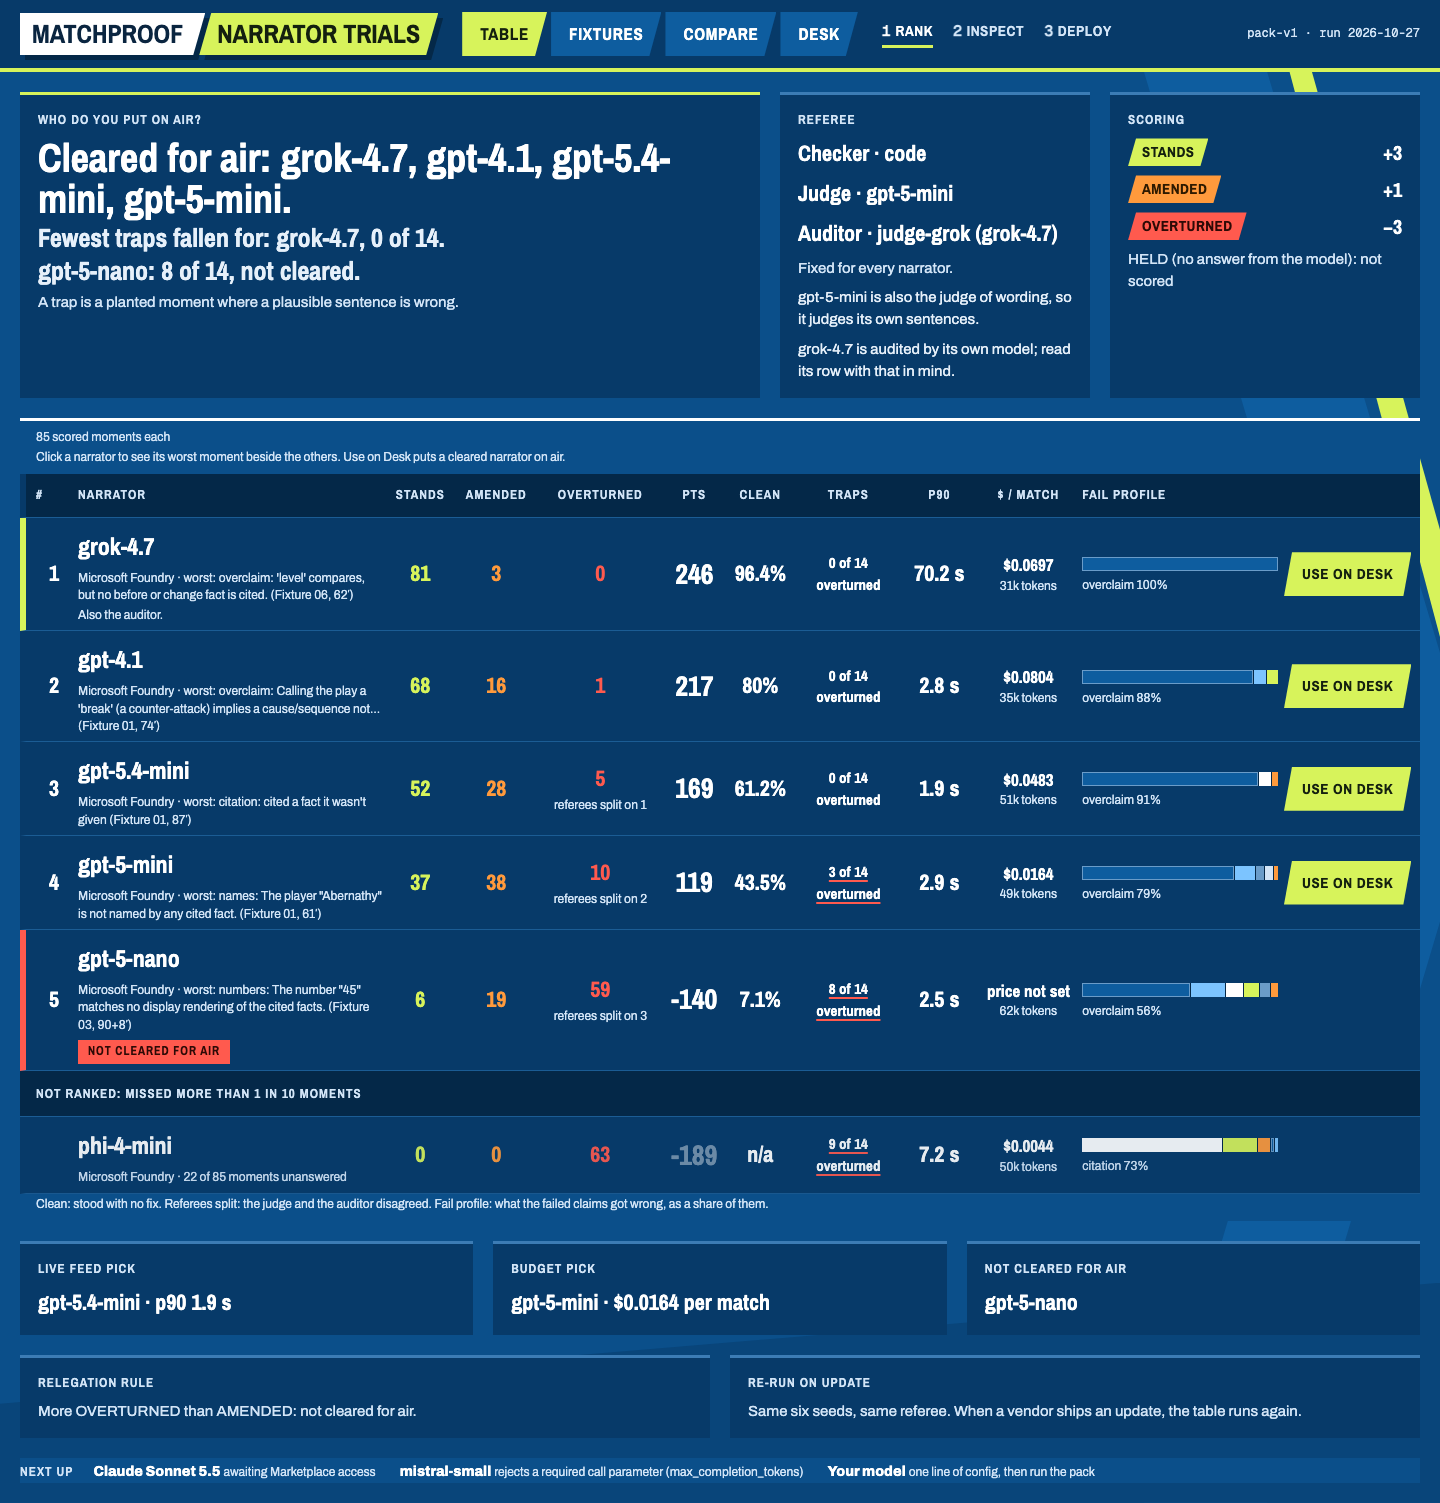
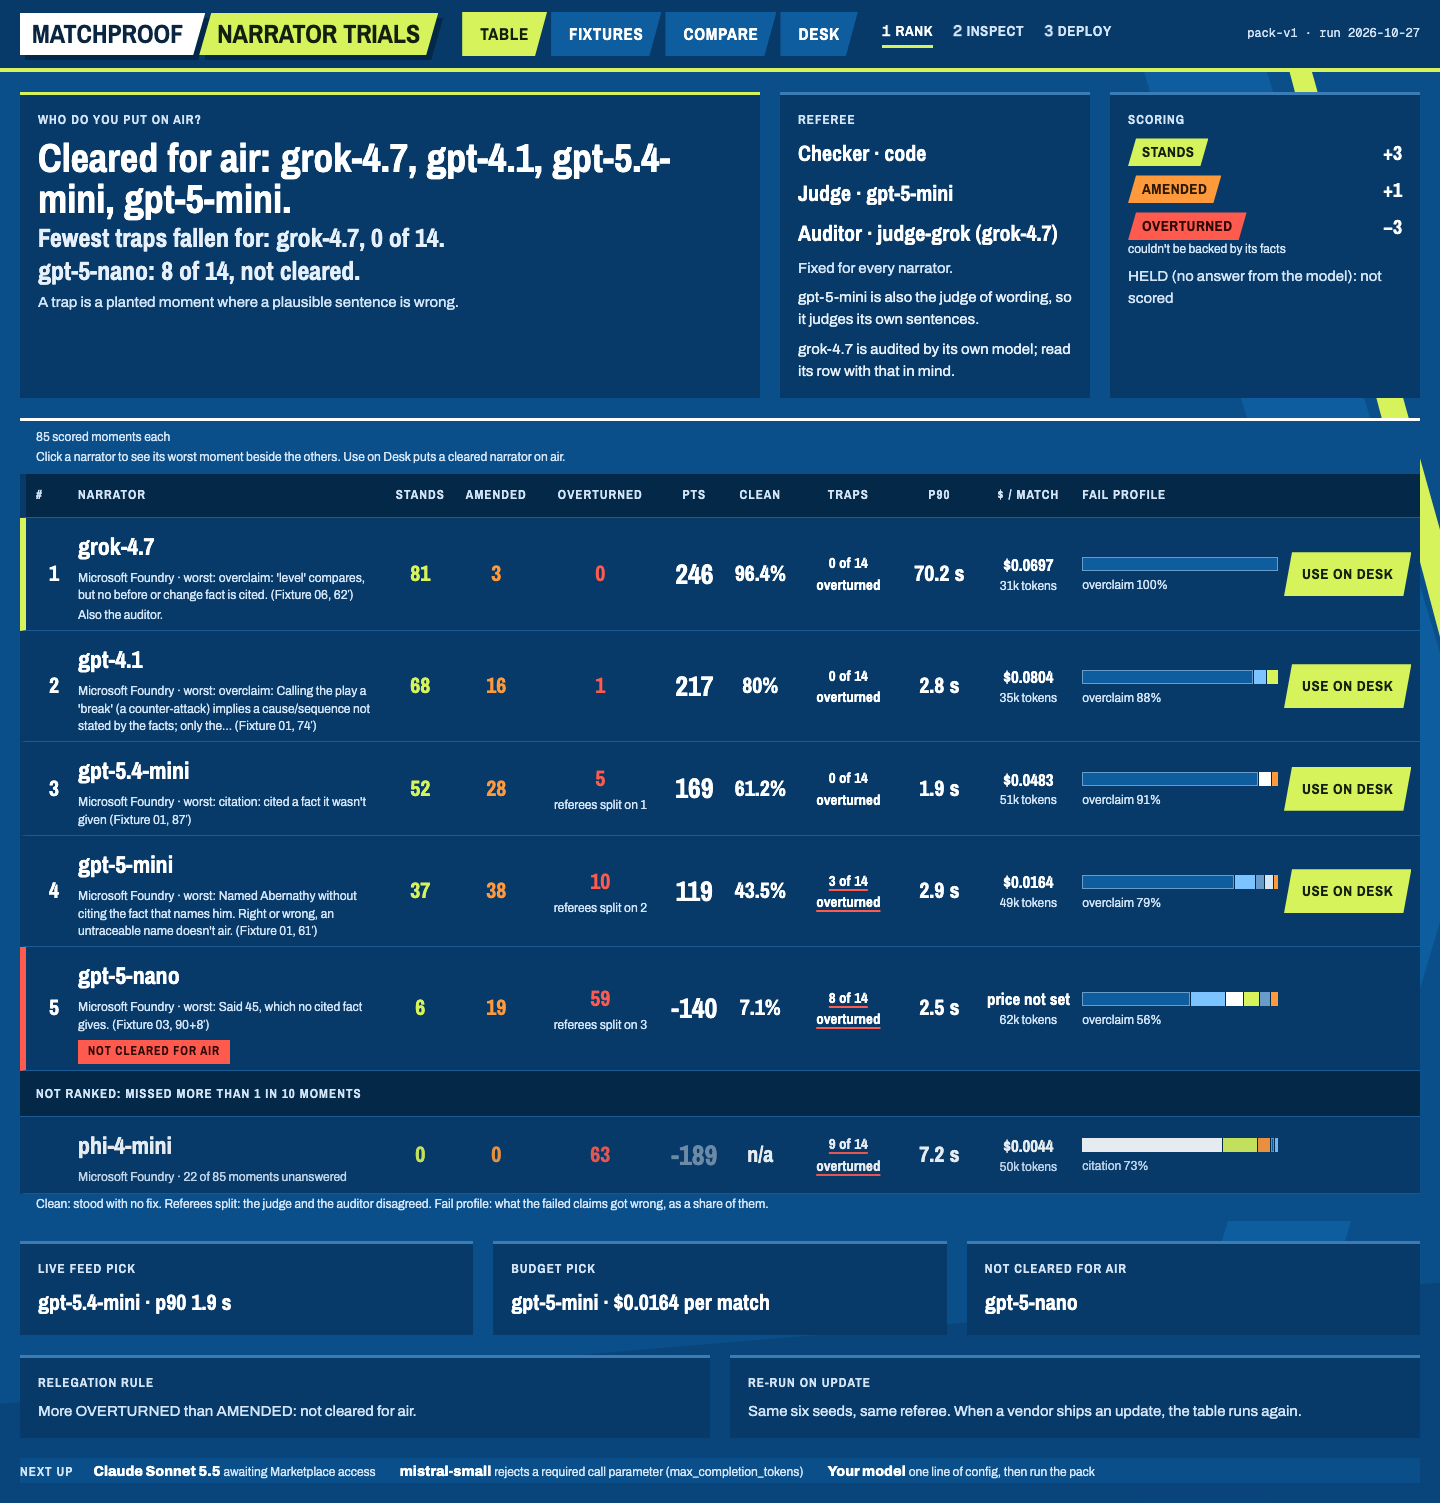
Say name and number overturns in plain words and explain OVERTURNED

diff --git a/apps/web/e2e/trials.spec.ts b/apps/web/e2e/trials.spec.ts
@@ -198,3 +198,12 @@ for (const width of [1440, 1280, 1024]) {
     expect(clashes).toEqual([]);
   });
 }
+
+test("a code-caught name overturn says why in plain words, and OVERTURNED is explained", async ({ page }) => {
+  await open(page, "/compare/fx-02/bt-001815-set_piece_goal?focus=gpt-5-nano");
+  await expect(page.getByText("OVERTURNED means the claim couldn't be traced to its cited facts, even if it happens to be true.")).toBeVisible();
+  await expect(page.locator("#card-gpt-5-nano").getByText("Named Oyelaran without citing the fact that names him. Right or wrong, an untraceable name doesn't air.")).toBeVisible();
+  await page.screenshot({ path: `${OUT}/compare-plain-reason-1440.png`, fullPage: true });
+  await open(page, "/");
+  await expect(page.getByText("couldn't be backed by its facts")).toBeVisible();
+});

diff --git a/apps/web/src/components/trials/TablePage.tsx b/apps/web/src/components/trials/TablePage.tsx
@@ -67,9 +67,12 @@ function Scoring() {
     <section className="tr-card">
       <div className="tr-hd">{t.trials.scoring.title}</div>
       {rows.map(([key, label, pts]) => (
-        <div key={key} className="tr-score">
-          <span className={`mp-stamp mp-stamp--${key}`}>{label}</span>
-          <span className="tr-score-pts">{pts}</span>
+        <div key={key}>
+          <div className="tr-score">
+            <span className={`mp-stamp mp-stamp--${key}`}>{label}</span>
+            <span className="tr-score-pts">{pts}</span>
+          </div>
+          {key === "blocked" ? <div className="tr-sub">{t.trials.scoring.blocked}</div> : null}
         </div>
       ))}
       <div className="tr-body">{t.trials.scoring.held}</div>

diff --git a/apps/web/src/components/trials/CompareView.tsx b/apps/web/src/components/trials/CompareView.tsx
@@ -153,6 +153,7 @@ export function CompareView({ fixture, beat }: { fixture: string; beat: string }
           <div className="tr-narrators-head">
             <h1 className="tr-h1 tr-h1--sm">{fill(t.headline, { n: web.order.length })}</h1>
             <p className="tr-sub">{t.note}</p>
+            <p className="tr-sub">{t.overturnedNote}</p>
           </div>
           <div className="tr-cards">
             {web.order.map((id) => (

diff --git a/apps/web/src/contracts/types.ts b/apps/web/src/contracts/types.ts
@@ -691,7 +691,7 @@ fixture: string
 beat: string
 verdict: ("STANDS" | "AMENDED" | "OVERTURNED" | "HELD")
 /**
- * <bucket>: <reason>, the reviewer prefix stripped, cut at a word boundary to about 90 characters.
+ * The claim's reason line (`<bucket>: <reason>`, or a plain sentence for a name or number the code caught), the reviewer prefix stripped, cut at a word boundary to about 120 characters.
  */
 note: string
 }

diff --git a/evals/trials_web.py b/evals/trials_web.py
@@ -39,7 +39,7 @@ WEB_FIXTURES_DIR = ROOT / "apps" / "web" / "fixtures" / "trials"
 MAX_HELD_SHARE = (
     0.10  # a candidate with more beats unanswered than this is not measured
 )
-NOTE_CHARS = 90
+NOTE_CHARS = 120
 CODE_BUCKETS = ("numbers", "names", "citation")  # caught in code, before any judge
 MAX_SOURCES = 6
 SIZE_LIMIT = 1_500_000
@@ -85,6 +85,23 @@ def citation_words(reason: str) -> str | None:
     return None
 
 
+NAME_REASON = re.compile(r'^The player "(.+)" is not named by any cited fact\.$')
+NUMBER_REASON = re.compile(r'^The number "(.+)" matches no display rendering')
+
+
+def code_words(reason: str) -> str | None:
+    """What the code caught, said plainly in a sentence of its own, for a name or a number; None for
+    any other reason. These need no bucket label in front."""
+    if (name := NAME_REASON.match(reason)) is not None:
+        return (
+            f"Named {name.group(1)} without citing the fact that names him. "
+            "Right or wrong, an untraceable name doesn't air."
+        )
+    if (number := NUMBER_REASON.match(reason)) is not None:
+        return f"Said {number.group(1)}, which no cited fact gives."
+    return None
+
+
 def reason_for(bucket: str | None, reasons: list[str]) -> str:
     """The first reason that belongs to the bucket, else the first reason."""
     if bucket == "numbers":
@@ -107,6 +124,8 @@ def reason_line_of(claim: Json) -> str | None:
         return None
     bucket = claim["reason_bucket"]
     reason = reason_for(bucket, reasons)
+    if (plain := code_words(reason)) is not None:
+        return plain
     reason = citation_words(reason) or REVIEWER_PREFIX.sub("", reason)
     return f"{bucket}: {reason}" if bucket else reason
 

diff --git a/tests/test_trials_web.py b/tests/test_trials_web.py
@@ -190,13 +190,37 @@ def test_note_uses_the_reason_that_matches_the_bucket() -> None:
         ],
         reason_bucket="numbers",
     )
-    assert note_of(both).startswith("numbers: The number")
+    assert note_of(both) == "Said 6, which no cited fact gives."
 
 
-def test_note_is_cut_at_a_word_boundary_near_90_characters() -> None:
+def test_a_name_or_number_the_code_caught_is_said_plainly() -> None:
+    name = claim(
+        "OVERTURNED",
+        1,
+        "bt-1",
+        reasons=['The player "Oyelaran" is not named by any cited fact.'],
+        reason_bucket="names",
+    )
+    assert reason_line_of(name) == (
+        "Named Oyelaran without citing the fact that names him. "
+        "Right or wrong, an untraceable name doesn't air."
+    )
+    number = claim(
+        "OVERTURNED",
+        1,
+        "bt-1",
+        reasons=['The number "45" matches no display rendering of the cited facts.'],
+        reason_bucket="numbers",
+    )
+    assert reason_line_of(number) == "Said 45, which no cited fact gives."
+    assert note_of(number) == "Said 45, which no cited fact gives."
+    assert note_of(name) == reason_line_of(name)  # fits the Table's note uncut
+
+
+def test_note_is_cut_at_a_word_boundary_near_the_limit() -> None:
     text = "word " * 60
     got = trim(text)
-    assert got.endswith("…") and 80 <= len(got) <= 91
+    assert got.endswith("…") and 100 <= len(got) <= 121
     assert not got[:-1].endswith("wor")  # never mid-word
     assert trim("short") == "short"
 

diff --git a/packages/contracts/src/contracts/models.py b/packages/contracts/src/contracts/models.py
@@ -730,8 +730,8 @@ class Worst(BaseModel):
     note: Annotated[
         str,
         Field(
-            description='<bucket>: <reason>, the reviewer prefix stripped, cut at a word boundary to about 90 characters.',
-            max_length=100,
+            description="The claim's reason line (`<bucket>: <reason>`, or a plain sentence for a name or number the code caught), the reviewer prefix stripped, cut at a word boundary to about 120 characters.",
+            max_length=130,
         ),
     ]
 
